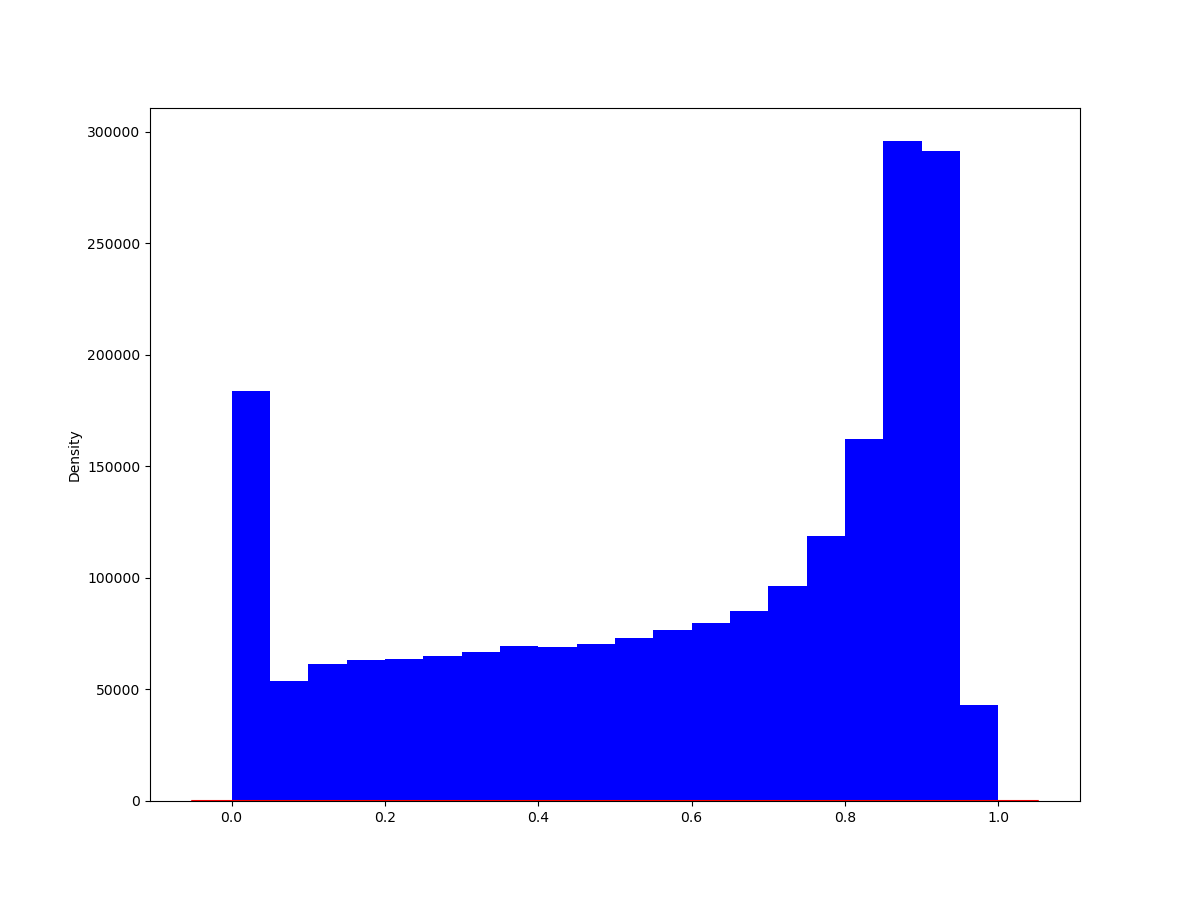
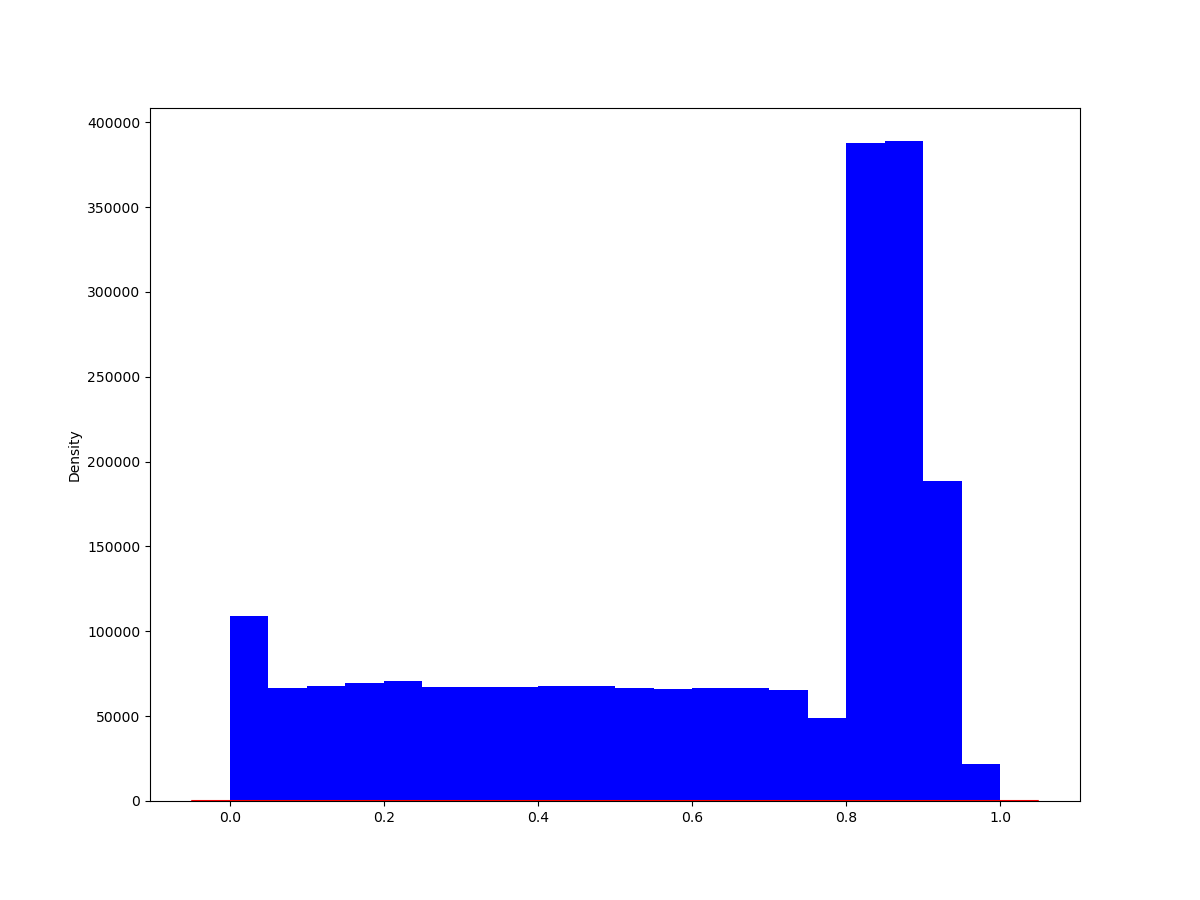
5.22 change

diff --git a/Deep/combine_data.py b/Deep/combine_data.py
@@ -1,39 +1,50 @@
 import numpy as np
-def specialindex(x,distance,choice):
+def corindex(x,cor1,cor2,choice):
     min=np.min(x)
     max=np.max(x)
+    if(choice==0):
+        list_spe=np.argwhere(x<min+cor1*(max-min))
+        [a,b]=np.shape(list_spe)
+        list_spe=np.reshape(list_spe,a)
     if(choice==1):
-        list_spe=np.argwhere(x<min+distance*(max-min))
-    else:
-        list_spe=np.argwhere(x>min+distance*(max-min))
-        print(min+distance*(max-min))
-    [a,b]=np.shape(list_spe)
-    list_spe=np.reshape(list_spe,a)
+        list_spe=np.argwhere(x>min+cor2*(max-min))
+        [a,b]=np.shape(list_spe)
+        list_spe=np.reshape(list_spe,a)
+    if(choice==2):
+        list_spe1=np.argwhere(x>min+cor1*(max-min))
+        list_spe2=np.argwhere(x<min+cor2*(max-min))
+        list_spe=np.intersect1d(list_spe1,list_spe2) 
     return list_spe
-def specialindex2(x,cor1,cor2):
-    min=np.min(x)
-    max=np.max(x)
-    list_spe1=np.argwhere(x>min+cor1*(max-min))
-    list_spe2=np.argwhere(x<min+cor2*(max-min))
-    list_spe=np.intersect1d(list_spe1,list_spe2) 
+def valueindex(x,val1,val2,choice):
+    if(choice==0):
+        list_spe=np.argwhere(x<val1)
+        [a,b]=np.shape(list_spe)
+        list_spe=np.reshape(list_spe,a)
+    if(choice==1):
+        list_spe=np.argwhere(x>val2)
+        [a,b]=np.shape(list_spe)
+        list_spe=np.reshape(list_spe,a)
+    if(choice==2):
+        list_spe1=np.argwhere(x>val1)
+        list_spe2=np.argwhere(x<val2)
+        list_spe=np.intersect1d(list_spe1,list_spe2) 
     return list_spe
-def specialindex3(x,val):
-    list_spe=np.argwhere(x>val)
-    [a,b]=np.shape(list_spe)
-    list_spe=np.reshape(list_spe,a)
-    return list_spe
-y_T=np.load("./data/raw_data/Ydata_T.npy")
-x_T=np.load("./data/raw_data/Xdata_T.npy")
+y_add=np.load("../../data/raw_data/Ydata_YH2O.npy")
+x_add=np.load("../../data/raw_data/Xdata_YH2O.npy")
 # print(np.shape(x_T))
 # print(np.shape(y_T))
-list_spe=specialindex3(y_T[:,6],1740)
-x_T=x_T[list_spe,:]
-y_T=y_T[list_spe,:]
-print(np.shape(x_T))
-print(np.shape(y_T))
-y=np.load("./data/raw_data/Ydata.npy")
-x=np.load("./data/raw_data/Xdata.npy")
-list_spe=specialindex(y[:,6],0.75,1)
+list_spe1 = valueindex(y_add[:,8],0.095,0.115,2)
+list_spe1 = np.random.choice(list_spe1, size=150000, replace=False)
+list_spe2 = valueindex(y_add[:,8],0.095,0.115,1)
+list_spe2 = np.random.choice(list_spe2, size=100000, replace=False)
+list_spe=np.concatenate((list_spe1,list_spe2),axis=0) 
+x_add=x_add[list_spe,:]
+y_add=y_add[list_spe,:]
+print(np.shape(x_add))
+print(np.shape(y_add))
+y=np.load("../../data/raw_data/Ydata.npy")
+x=np.load("../../data/raw_data/Xdata.npy")
+list_spe=corindex(y[:,8],0.75,1,0)
 x=x[list_spe,:]
 y=y[list_spe,:]
 print(np.shape(x))
@@ -43,9 +54,12 @@ print(np.shape(y))
 # list_spe_large=specialindex3(y_large[:,0],8050)
 # x_large=x_large[list_spe_large,:]
 # y_large=y_large[list_spe_large,:]
-Xdata=np.concatenate((x_T,x),axis=0)
+Xdata=np.concatenate((x_add,x),axis=0)
 # Xdata=np.concatenate((Xdata,x_large),axis=0)
-Ydata=np.concatenate((y_T,y),axis=0)
+Ydata=np.concatenate((y_add,y),axis=0)
+list_spe3 = valueindex(Ydata[:,8],0.095,0.115,1)
+print(np.shape(list_spe3))
+print(np.shape(Xdata))
 # Ydata=np.concatenate((Ydata,y_large),axis=0)
-np.save('./data/raw_data/Xdata_T',Xdata)
-np.save('./data/raw_data/Ydata_T',Ydata)
+np.save('../../data/raw_data/Xdata_YH2O',Xdata)
+np.save('../../data/raw_data/Ydata_YH2O',Ydata)

diff --git a/Deep/train_RES.py b/Deep/train_RES.py
@@ -1,11 +1,11 @@
 batch_size_train = 10240
-lr_train = 1e-6 #学习率
+lr_train = 1e-5 #学习率
 weight_decay_train=1e-6 #梯度下降衰减系数
 epochs_train = 5000 #训练迭代次数
 blocknum=6
 neuronum=300
 inputnum=8
-outputnum=2
+outputnum=1
 import torch
 import torch.utils.data as Data
 from RES import ResNet,BasicBlock
@@ -15,19 +15,20 @@ from torch.autograd import Variable
 import matplotlib.pyplot as plt
 import numpy as np
 from sklearn.model_selection import train_test_split
-x=np.load('./data/train_data/Xdata_train_T.npy')
-y=np.load('./data/train_data/Ydata_train_T.npy')
+x=np.load('../../data/train_data/Xdata_train_YH2O.npy')
+y=np.load('../../data/train_data/Ydata_train_YH2O.npy')
 x_train, x_test, y_train, y_test = train_test_split(x, y, test_size = 0.05)
 model= ResNet(BasicBlock,blocknum,neuronum,inputnum,outputnum)
 device = torch.device('cuda' if torch.cuda.is_available() else 'cpu')
 model.to(device)
-y_train_phi=y_train[:,6:8]
-y_test_phi=y_test[:,6:8]
+y_train_phi=y_train[:,8:9]
+print(np.shape(y_train_phi))
+y_test_phi=y_test[:,8:9]
 optimizer = torch.optim.Adam(model.parameters(),lr = lr_train,weight_decay=weight_decay_train)
 loss_func = torch.nn.MSELoss()
 # print("ok")
-params = torch.load("./networks/model_gpu_100_T.pth") # 加载参数
-model.load_state_dict(params) # 应用到网络结构中
+# params = torch.load("./networks/model_gpu_100_T.pth") # 加载参数
+# model.load_state_dict(params) # 应用到网络结构中
 # print("ok")
 # print(np.shape(y_test))
 x_train_torch = torch.tensor(x_train,dtype=torch.float)
@@ -77,5 +78,5 @@ for epoch in range(epochs_train):
             # "train loss",lossvalidation.data.numpy()," R",1-losstest.data.numpy()/((1/5)*np.sum()print(epoch," test loss",losstest.data.numpy())
             print(epoch," test loss",losstest.data.numpy())#print(epoch,"train loss",lossvalidation.data.numpy()," test loss",losstest.data.numpy())
     if epoch % 100 == 0:
-        path_save="./networks/model_gpu"+"_"+str(epoch)+"_T_2.pth"
+        path_save="../../networks/model_gpu"+"_"+str(epoch)+"_YH2O_2.pth"
         torch.save(model.state_dict(),path_save)

diff --git a/Deep/generate_traindata.py b/Deep/generate_traindata.py
@@ -1,8 +1,10 @@
 from scipy import stats
 from scipy.special import inv_boxcox
 import numpy as np
-Xdata=np.load('./data/raw_data/Xdata_T.npy')
-Ydata=np.load('./data/raw_data/Ydata_T.npy')
+name="YH2O"
+Xdata=np.load("../../data/raw_data/Xdata_"+name+".npy")
+Ydata=np.load("../../data/raw_data/Ydata_"+name+".npy")
+# print(np.shape(Ydata))
 length=len(Ydata[0])
 lambdas=np.zeros(length)
 constants=np.zeros(length)
@@ -26,11 +28,10 @@ for i in range(len(label_texts)):
     y[:,i]=(y[:,i]-phimin[i])/(phimax[i]-phimin[i])
 for i in range(8):
     x[:,i]=(x[:,i]-xmin[i])/(xmax[i]-xmin[i])
-np.save("./data/train_data/Xdata_train_T",x)
-np.save("./data/train_data/Ydata_train_T",y)
-np.save("./data/process_params/phimax_T",phimax)
-np.save("./data/process_params/phimin_T",phimin)
-# np.save("./data/process_params/xmax_try",xmax)
-# np.save("./data/process_params/xmin_try",xmin)
-np.save('./data/process_params/constants_T',constants)
-np.save('./data/process_params/lambdas_T',lambdas)
+# print(np.shape(y))
+np.save("../../data/train_data/Xdata_train_"+name+".npy",x)
+np.save("../../data/train_data/Ydata_train_"+name+".npy",y)
+np.save("../../data/process_params/phimax_"+name+".npy",phimax)
+np.save("../../data/process_params/phimin_"+name+".npy",phimin)
+np.save("../../data/process_params/constants_"+name+".npy",constants)
+np.save("../../data/process_params/lambdas_"+name+".npy",lambdas)

diff --git a/Deep/generate_rawdata.py b/Deep/generate_rawdata.py
@@ -6,12 +6,12 @@ x=np.zeros(4)
 y=np.zeros(14)
 num=20
 columns=19
-rows=4095
-for i in range(32,87):#1,num+1
+rows=21735
+for i in range(36,153):#1,num+1
  str_i=str("%02d"%i)
 #  data_i = np.fromfile("./data_new/unit"+str_i+"_h01.dat", dtype=np.float64, count=rows*columns, sep=" ", offset=0)
 #  data_i=np.reshape(data_i,(rows,columns))
- data_i = np.loadtxt("./data/data_T/unit"+str_i+"_h01.dat", dtype=np.float64)
+ data_i = np.loadtxt("../../data/data_YH2O/unit"+str_i+"_h01.dat", dtype=np.float64)
  x_i=data_i[:,0:4]
  y_i=data_i[:,5:19]
  x=np.vstack([x,x_i])
@@ -28,5 +28,5 @@ new_col = np.array(x[:,1]*(1/(x[:,3]+1e-4)-1))
 x = np.c_[x, new_col]
 new_col = np.array((1-x[:,1])*(1/(x[:,3]+1e-4)-1))
 x = np.c_[x, new_col]
-np.save('./data/raw_data/Xdata_T',x)
-np.save('./data/raw_data/Ydata_T',y)
+np.save('../../data/raw_data/Xdata_YH2O',x)
+np.save('../../data/raw_data/Ydata_YH2O',y)

diff --git a/Deep/predictions.py b/Deep/predictions.py
@@ -15,7 +15,7 @@ x=np.load('./data/raw_data/Xdata.npy')
 x=process_raw(x)
 x = torch.tensor(x,dtype=torch.float)
 x=x.to("cuda")
-model = ResNet(BasicBlock,6,300,8,3)
+model = ResNet(BasicBlock,6,300,8,1)
 params = torch.load("./networks/model_gpu_400_cp.pth") # 加载参数
 model.load_state_dict(params) # 应用到网络结构中
 model=model.to("cuda")
@@ -44,7 +44,8 @@ phi_mean=np.mean(ytrue[:,ind])
 # print(ytrue[:,ind])
 # print(np.mean((predictions[:,ind]-ytrue[:,ind])**2))
 # print(np.mean((phi_mean-ytrue[:,ind])**2))
-errors=predictions[:,ind-diff]-ytrue[:,ind]
+# errors=predictions[:,ind-diff]-ytrue[:,ind]
+predictions[:,ind-diff] = np.nan_to_num(predictions[:,ind-diff], nan=0)
 print("R",1-np.mean((predictions[:,ind-diff]-ytrue[:,ind])**2)/np.mean((phi_mean-ytrue[:,ind])**2))
 plt.subplot(1,2,1)
 plt.scatter(ytrue[:,ind],predictions[:,ind-diff])
